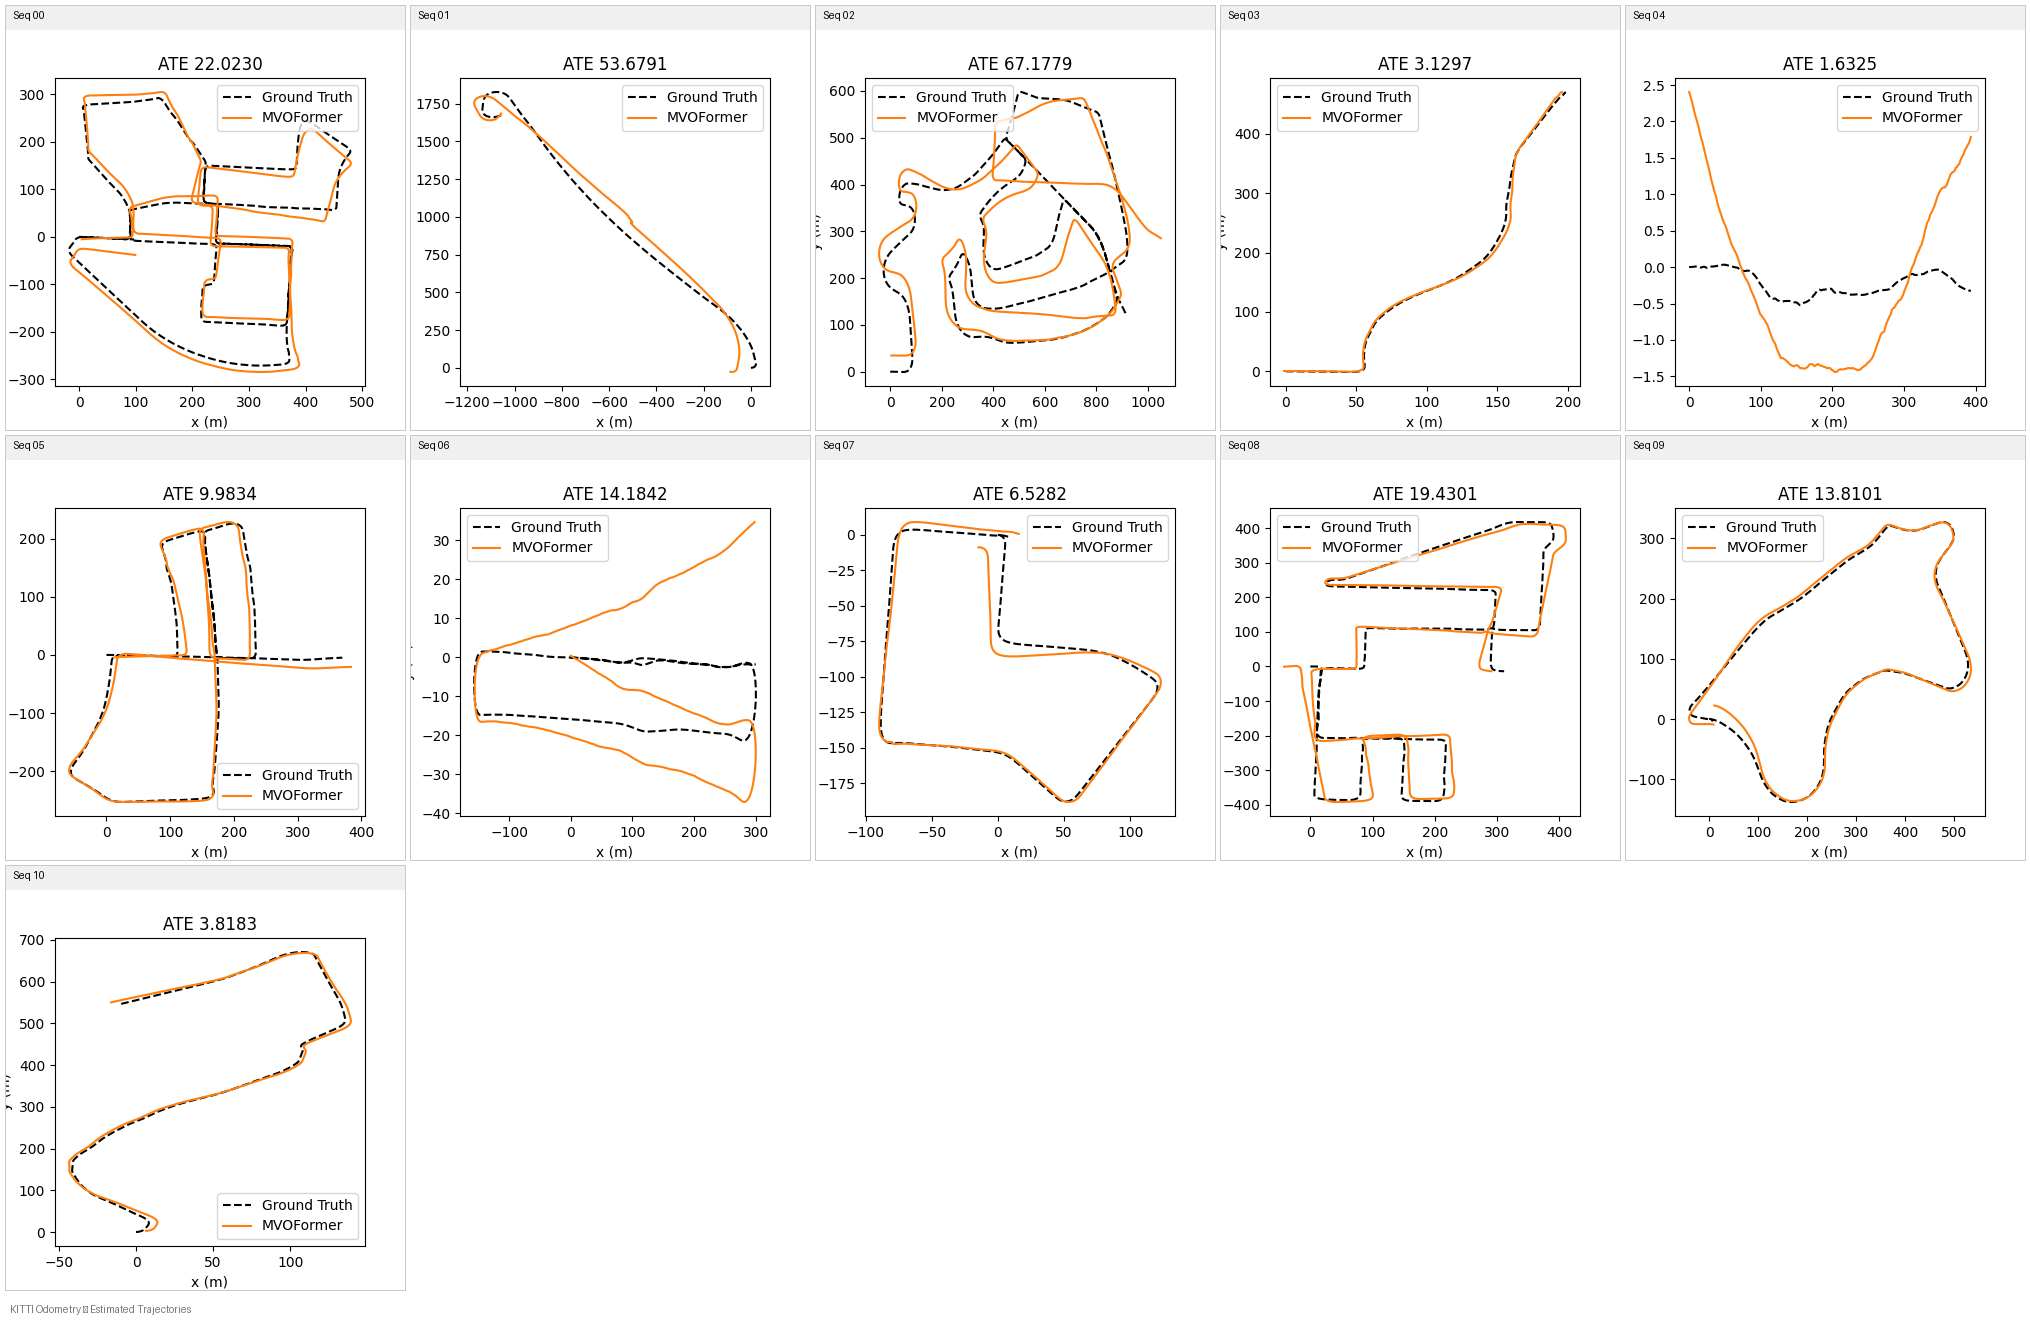
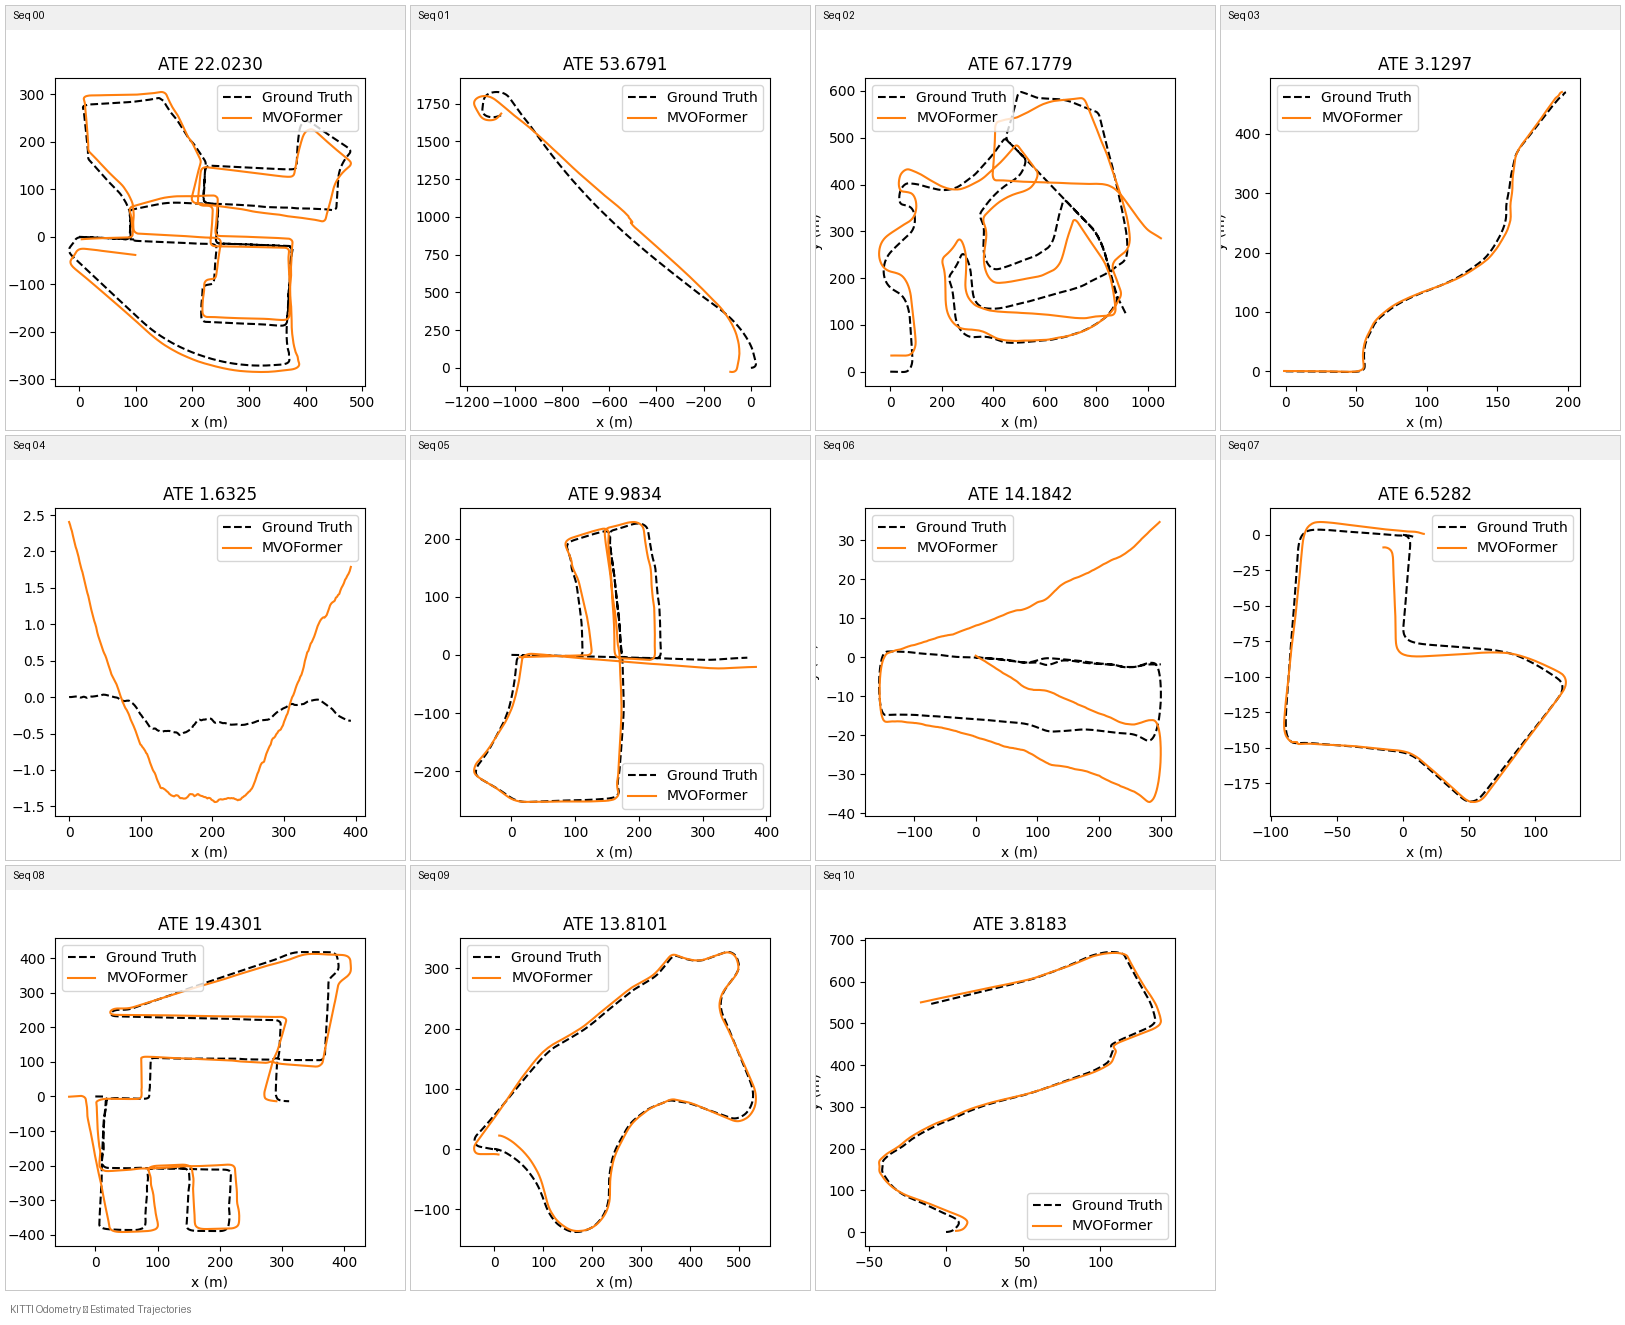
KITTI montage: 4 per row, placed below table

diff --git a/README.md b/README.md
@@ -262,12 +262,6 @@ Key parameters in `Configs/MVOFormer.yaml`:
 
 ## Results
 
-<p align="center">
-  <img src="assets/kitti_trajectories.png" alt="KITTI Trajectories" width="90%">
-  <br>
-  <em>Qualitative results on KITTI Odometry sequences 00–10.</em>
-</p>
-
 Quantitative comparison (ATE ↓) on four benchmarks.
 
 | Method | KITTI | TartanAir | TUM-RGBD | ETH3D-SLAM |
@@ -280,6 +274,12 @@ Quantitative comparison (ATE ↓) on four benchmarks.
 | **MVOFormer (Ours) †** | **19.61** | **1.36** | **0.187** | **0.276** |
 
 ‡ Multi-Frame methods (with global optimization / loop closure) &emsp; † Frame-to-Frame learning-based methods
+
+<p align="center">
+  <img src="assets/kitti_trajectories.png" alt="KITTI Trajectories" width="90%">
+  <br>
+  <em>Qualitative results on KITTI Odometry sequences 00–10.</em>
+</p>
 
 ---
 